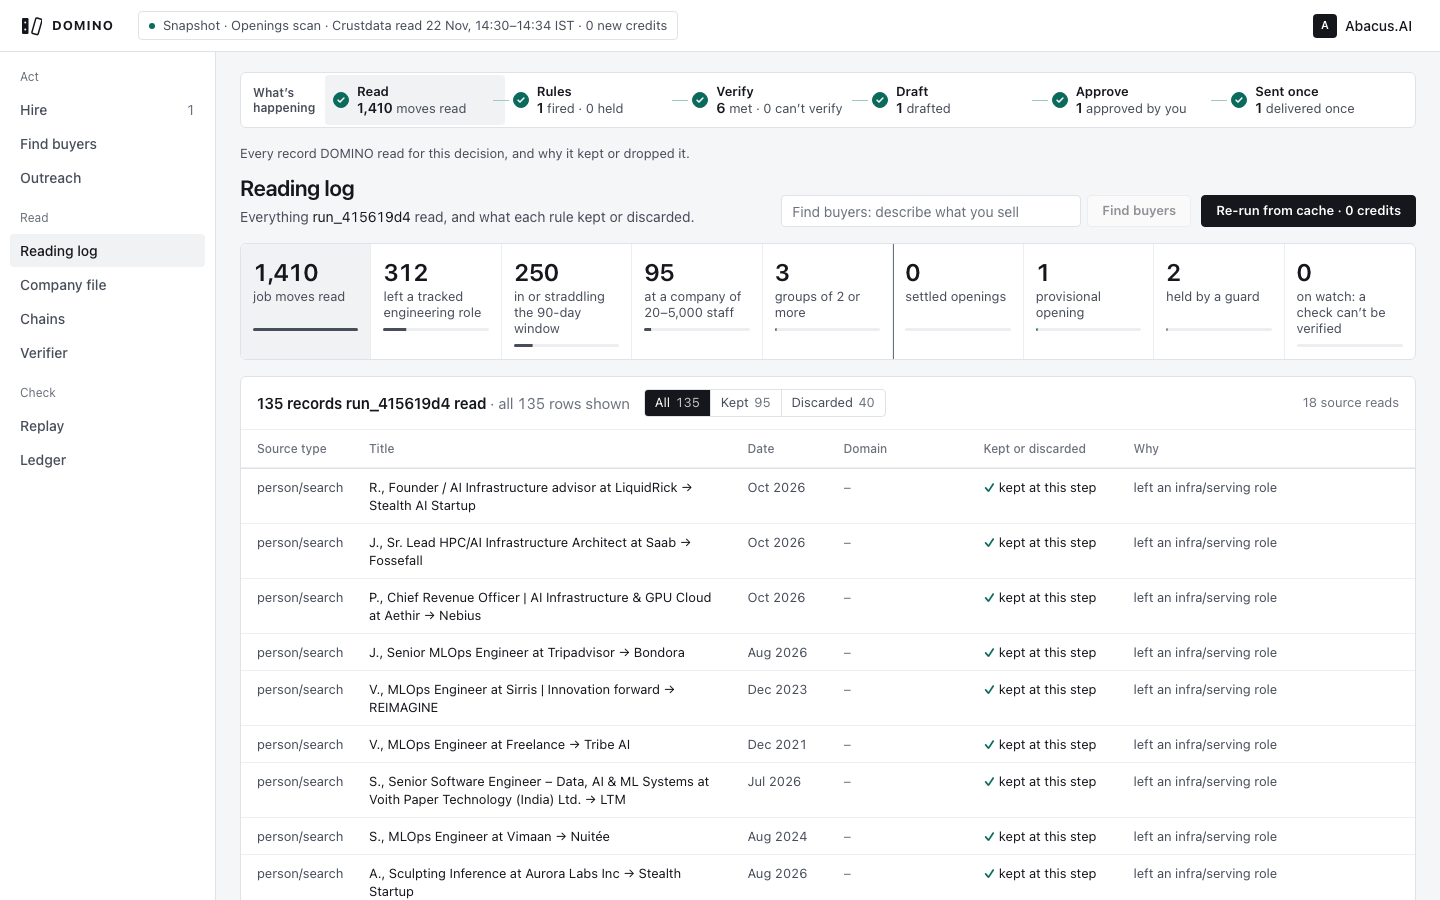
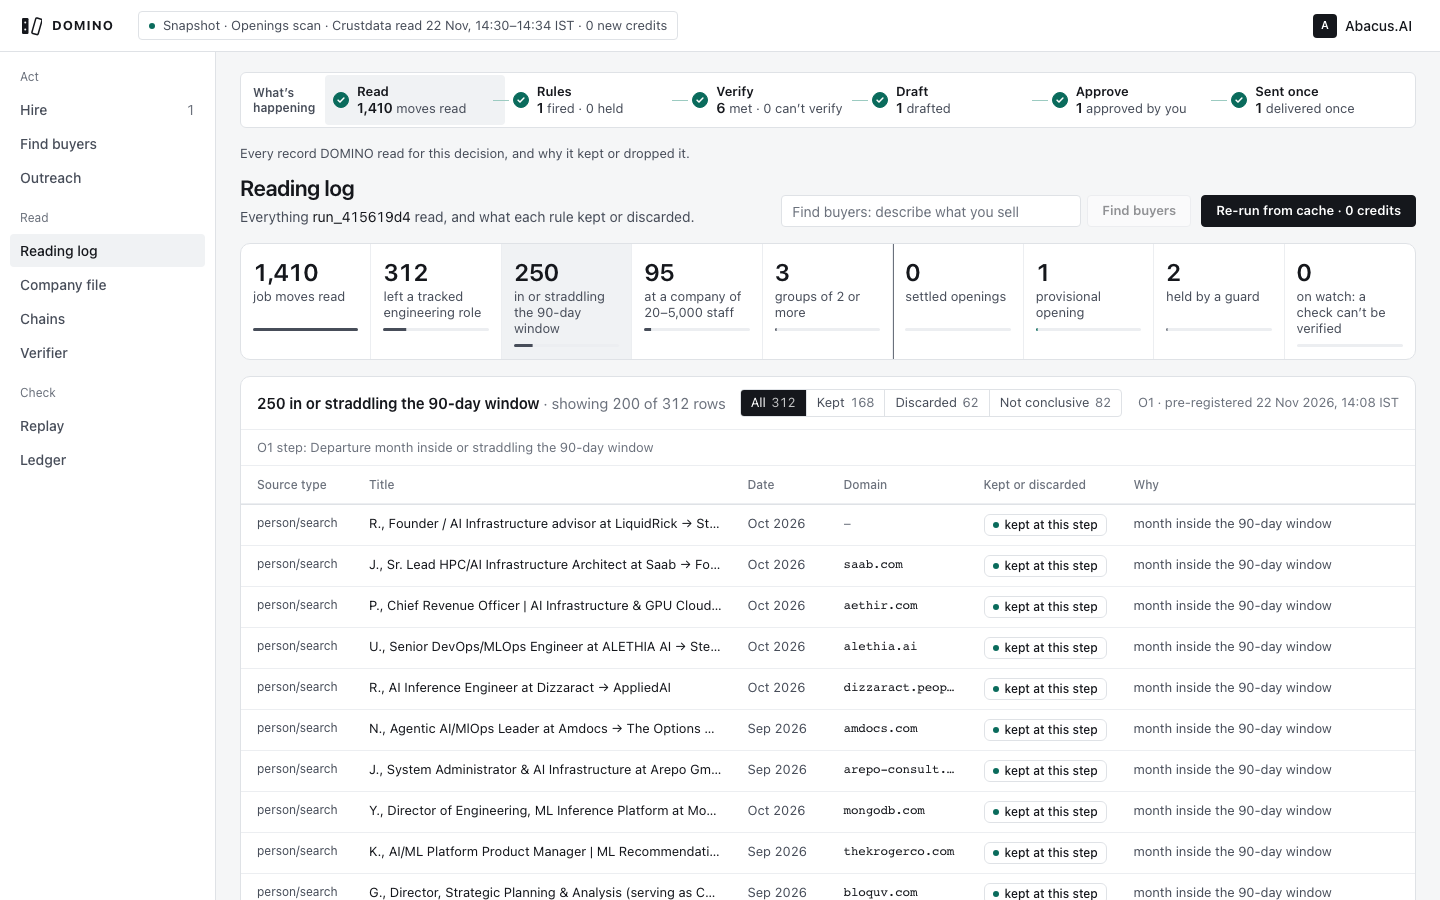
Hire and Reading log: Attio-direction grid, pill chips with a state dot, single-line log rows, 10px cards

diff --git a/web2/src/features/reading/reading.css b/web2/src/features/reading/reading.css
@@ -131,6 +131,26 @@ tr:not(.rd-sub) + .rd-sub td, .rd-sub + .rd-sub td { border-top: 0; }
 .rd-open:focus-visible { outline: 2px solid var(--ink-3); outline-offset: -2px; }
 .rd-showing, .rd-seg button span { font-variant-numeric: tabular-nums; }
 .rd-seg button { padding: 3px 10px; }
+/* Attio direction: compact single-line rows (full title on hover), decisions and source types as small rounded pills
+   with a state dot, hairline 10px cards. The teal dot is kept for meaning only (kept); discards stay neutral. */
+.rd-panel, .rd-funnel { border-radius: 10px; }
+.rd-funnel > div:first-child { border-radius: 10px 0 0 10px; }
+.rd-funnel > div:last-child { border-radius: 0 10px 10px 0; }
+.rd-table td { padding-top: 9px; padding-bottom: 9px; vertical-align: middle; }
+.rd-table td.rd-title { white-space: nowrap; overflow: hidden; text-overflow: ellipsis; overflow-wrap: normal; }
+.rd-src { font-size: 12px; }
+.rd-pill {
+  display: inline-flex; align-items: center; gap: 6px; height: 22px; padding: 0 8px; border: 1px solid var(--rule); border-radius: 6px;
+  font-size: 12px; font-weight: 500; color: var(--ink); background: var(--surface); white-space: nowrap;
+}
+.rd-pill i { width: 6px; height: 6px; border-radius: 50%; background: var(--ink-3); flex: none; }
+.rd-pill-kept i { background: var(--acc); }
+.rd-pill-provisional { border-style: dashed; border-color: var(--acc); }
+.rd-pill-provisional i { background: var(--acc); }
+.rd-pill-discarded { color: var(--ink-2); }
+.rd-pill-discarded i { background: transparent; border: 1.5px solid var(--ink-3); width: 7px; height: 7px; box-sizing: border-box; }
+.rd-pill-held, .rd-pill-inconclusive { color: var(--ink-2); background: repeating-linear-gradient(135deg, transparent 0 3px, var(--hatch) 3px 5px); }
+.rd-sub .rd-pill { height: 20px; }
 @media (min-width: 1800px) {
   .rd-table { font-size: 14px; }
   .rd-date { font-size: 14px; }

diff --git a/web2/src/features/openings/openings.css b/web2/src/features/openings/openings.css
@@ -189,7 +189,16 @@
 .rec-hire td { vertical-align: top; }
 .rec-fit li + li { margin-top: 4px; }
 .rec-foot { padding: 10px 16px 12px; }
+/* Attio direction: 10px hairline cards, state as a small rounded pill with a teal dot (meaning only), 36-40px rows. */
+.rec .panel { border-radius: 10px; }
+.rec-pill {
+  display: inline-flex; align-items: center; gap: 6px; height: 22px; padding: 0 8px; border: 1px solid var(--rule); border-radius: 6px;
+  font-size: 12px; font-weight: 500; color: var(--ink); background: var(--surface); white-space: nowrap;
+}
+.rec-pill i { width: 6px; height: 6px; border-radius: 50%; background: var(--acc); }
+.rec-dep table.t td { padding-top: 9px; padding-bottom: 9px; vertical-align: middle; }
 @media (min-width: 1800px) {
+  .rec-pill { font-size: 13px; height: 24px; }
   .rec .panel > header > span:not(.st) { font-size: 14px; }
   .rec table.t th { font-size: 13px; }
 }

diff --git a/web2/src/features/reading/Reading.tsx b/web2/src/features/reading/Reading.tsx
@@ -305,9 +305,6 @@ function Clause({ text }: { text: string }) {
 }
 
 function DecisionMark({ d }: { d: Decision }) {
-  if (d === 'kept') return <><span className="tick">✓</span> kept at this step</>;
-  if (d === 'provisional') return <span className="st prov">provisional</span>;
-  if (d === 'discarded') return <><span className="rd-x" aria-hidden>✕</span> discarded</>;
-  if (d === 'held') return <span className="st held">held</span>;
-  return <span className="st held">not conclusive</span>;
+  const label = d === 'kept' ? 'kept at this step' : d === 'inconclusive' ? 'not conclusive' : d;
+  return <span className={`rd-pill rd-pill-${d}`}><i aria-hidden />{label}</span>;
 }

diff --git a/web2/src/features/openings/Openings.tsx b/web2/src/features/openings/Openings.tsx
@@ -93,7 +93,7 @@ function DepRow({ r, start }: { r: DepartureRow; start: string | null }) {
       <td className={s}>{r.d.toCompanyName ?? 'not stated'}</td>
       <td className={s} data-num>{r.month ? fmtDate(r.month, true) : 'undated'}</td>
       <td>
-        {r.conclusive === true && <><span className="tick">✓</span> conclusive</>}
+        {r.conclusive === true && <span className="rec-pill"><i aria-hidden />conclusive</span>}
         {r.conclusive === false && <span className="muted">{r.reason}{start ? ` (${start})` : ''}</span>}
         {r.conclusive === null && <span className="faint">not assessed</span>}
       </td>
